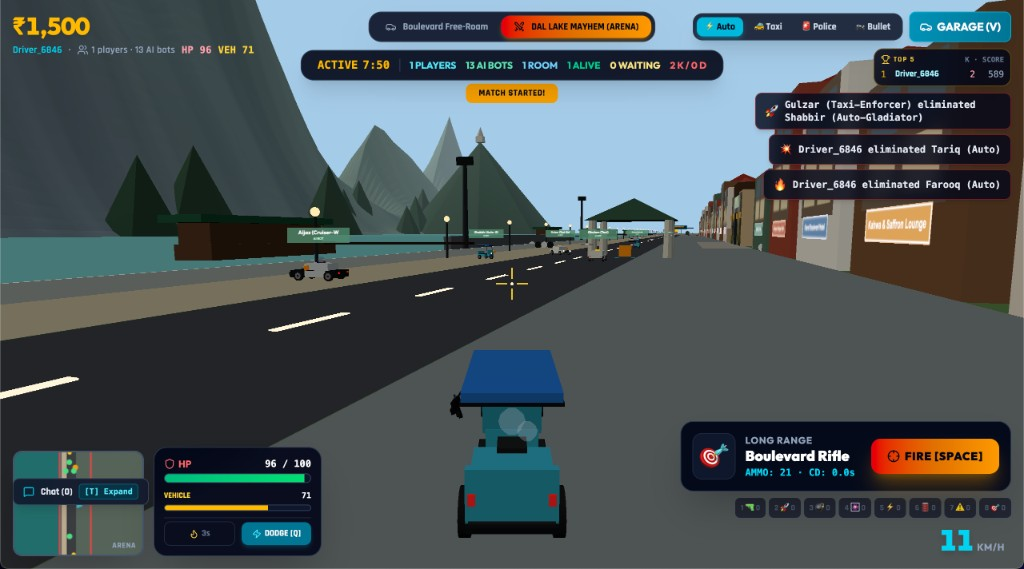
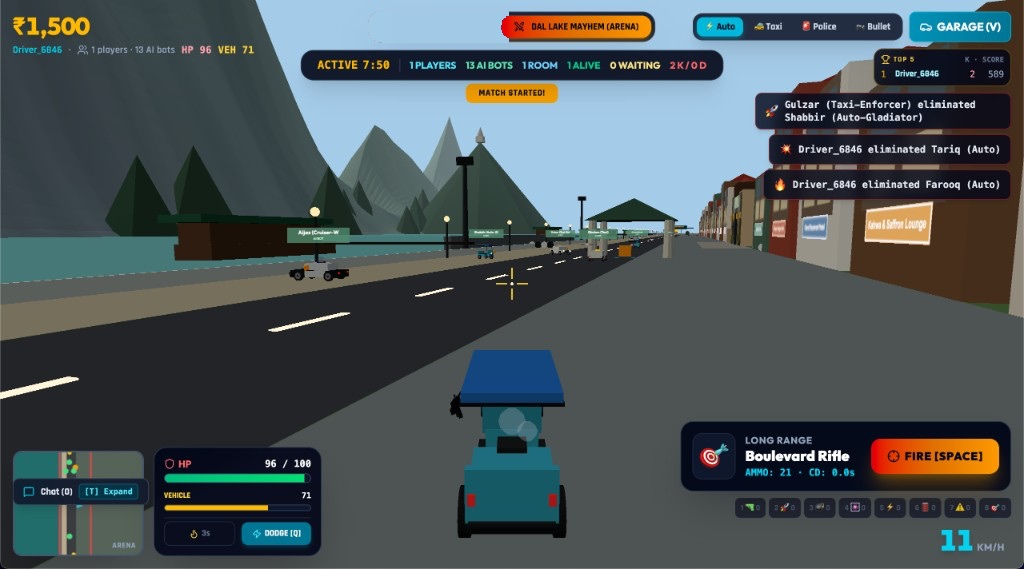
Apply ram damage in the arena and remove the free-roam buttons.
Hits were ignored once the game started in battle arena, so collisions now damage the vehicle you strike. The Boulevard Free-Roam control is gone from the start screen and HUD.

Changed region(s): [[0.3438, 0.0, 0.5, 0.0896]]

diff --git a/src/App.tsx b/src/App.tsx
@@ -1795,7 +1795,7 @@ export default function App() {
             loc.x += Math.sin(pushDir) * (collisionRadius - dist) * 0.7;
             loc.z += Math.cos(pushDir) * (collisionRadius - dist) * 0.7;
             bumpSpeed(0.35);
-            if (Math.abs(impactSpeed) >= 4.5 && ws.readyState === WebSocket.OPEN) {
+            if (Math.abs(impactSpeed) >= 2.2 && ws.readyState === WebSocket.OPEN) {
               const sentAt = lastRamSentRef.current.get(rId) || 0;
               if (nowMs - sentAt >= 650) {
                 lastRamSentRef.current.set(rId, nowMs);
@@ -2396,7 +2396,7 @@ export default function App() {
       {!hasStarted && (
         <div className="absolute inset-0 z-50 flex flex-col items-center justify-center p-6">
           <img
-            src="/assets/start-bg.jpg"
+            src="/assets/start-bg.jpg?v=3"
             alt=""
             className="absolute inset-0 h-full w-full object-cover"
           />
@@ -2454,18 +2454,6 @@ export default function App() {
               >
                 <Swords className="w-5 h-5 text-slate-950" /> DAL LAKE MAYHEM (COMBAT)
               </button>
-
-              <button
-                onClick={() => {
-                  setHasStarted(true);
-                  switchGameMode('free_roam');
-                  initAudio();
-                  playKashmiriSoundtrack();
-                }}
-                className="w-full sm:w-auto px-7 py-3.5 bg-slate-800/90 hover:bg-slate-700 border border-slate-600 text-white font-bold text-lg rounded-xl shadow-lg transition-all cursor-pointer font-['Outfit'] flex items-center justify-center gap-2"
-              >
-                <Car className="w-5 h-5 text-cyan-400" /> BOULEVARD FREE-ROAM
-              </button>
             </div>
 
             <div className={`text-xs text-slate-400 flex flex-wrap items-center justify-center gap-3 pt-4 border-t border-slate-800 ${isMobile ? 'hidden' : ''}`}>
@@ -2504,13 +2492,6 @@ export default function App() {
               </div>
               <div className="pointer-events-auto flex gap-1 bg-slate-950/80 border border-slate-700 rounded-xl p-1">
                 <button
-                  onClick={() => switchGameMode('free_roam')}
-                  className={`p-2 rounded-lg ${gameMode === 'free_roam' ? 'bg-cyan-500 text-slate-950' : 'text-slate-300'}`}
-                  title="Free-Roam"
-                >
-                  <Car className="w-4 h-4" />
-                </button>
-                <button
                   onClick={() => switchGameMode('battle_arena')}
                   className={`p-2 rounded-lg ${gameMode === 'battle_arena' ? 'bg-amber-500 text-slate-950' : 'text-slate-300'}`}
                   title="Arena"
@@ -2523,17 +2504,6 @@ export default function App() {
 
           {/* Top Center: Game Mode Switcher Tab Bar */}
           <div className={`${isMobile ? 'hidden' : ''} absolute top-4 left-1/2 -translate-x-1/2 z-30 pointer-events-auto flex items-center p-1 bg-slate-950/85 border border-slate-700 rounded-2xl shadow-2xl backdrop-blur-md`}>
-            <button
-              onClick={() => switchGameMode('free_roam')}
-              className={`flex items-center gap-2 px-4 py-1.5 rounded-xl text-xs font-bold transition-all cursor-pointer ${
-                gameMode === 'free_roam'
-                  ? 'bg-gradient-to-r from-cyan-600 to-cyan-500 text-white shadow-md shadow-cyan-600/30'
-                  : 'text-slate-400 hover:text-white'
-              }`}
-            >
-              <Car className="w-3.5 h-3.5" />
-              <span>Boulevard Free-Roam</span>
-            </button>
             <button
               onClick={() => switchGameMode('battle_arena')}
               className={`flex items-center gap-2 px-4 py-1.5 rounded-xl text-xs font-black transition-all cursor-pointer ${

diff --git a/server/roomManager.ts b/server/roomManager.ts
@@ -1333,8 +1333,8 @@ export class RoomManager {
 
   private ramDamageForSpeed(speed: number) {
     const s = Math.min(Math.abs(speed), 45);
-    if (s < 4.5) return 0;
-    return Math.min(58, Math.round(8 + (s - 4.5) * 1.35));
+    if (s < 2.2) return 0;
+    return Math.min(58, Math.round(6 + (s - 2.2) * 1.4));
   }
 
   private resolveRam(client: ConnectedClient, targetId: string, speed: number, x: number, z: number) {
@@ -1355,23 +1355,19 @@ export class RoomManager {
     let tz = NaN;
     let kind: 'player' | 'arena' | 'road' | null = null;
     if (human?.combat.isAlive) {
-      if (human.mode !== client.mode) return;
-      if (client.mode === 'battle_arena' && (this.matchState.state !== 'active' || !client.inMatch || !human.inMatch)) return;
       tx = human.state.x;
       tz = human.state.z;
       kind = 'player';
     } else if (arena?.combat.isAlive) {
-      if (client.mode !== 'battle_arena' || this.matchState.state !== 'active' || !client.inMatch) return;
       tx = arena.state.x;
       tz = arena.state.z;
       kind = 'arena';
     } else if (road && road.combat?.isAlive !== false) {
-      if (client.mode !== 'free_roam') return;
       tx = road.x;
       tz = road.z;
       kind = 'road';
     }
-    if (!kind || Math.hypot(x - tx, z - tz) > 8) return;
+    if (!kind || Math.hypot(x - tx, z - tz) > 18) return;
 
     const victimInvuln = human
       ? human.combat.invulnerableUntil
@@ -1385,16 +1381,17 @@ export class RoomManager {
     this.ramCooldown.set(key, now);
 
     if (kind === 'player' && human) {
-      this.dealDamageToPlayer(human, impact, client.playerId, client.name, 'ram', human.state.x, human.state.z);
+      this.dealDamageToPlayer(human, impact, client.playerId, client.name, 'ram', human.state.x, human.state.z, true);
       human.state.combat = human.combat;
     } else if (kind === 'arena' && arena) {
-      this.dealDamageToBot(arena, impact, client.playerId, client.name, 'ram', arena.state.x, arena.state.z);
+      this.dealDamageToBot(arena, impact, client.playerId, client.name, 'ram', arena.state.x, arena.state.z, true);
+      arena.state.combat = arena.combat;
     } else if (kind === 'road' && road) {
       this.hurtRoadBot(road, impact, client.playerId, client.name, 'ram');
     }
 
     const selfDamage = Math.max(4, Math.round(impact * 0.5));
-    this.dealDamageToPlayer(client, selfDamage, client.playerId, client.name, 'ram', client.state.x, client.state.z);
+    this.dealDamageToPlayer(client, selfDamage, client.playerId, client.name, 'ram', client.state.x, client.state.z, true);
     client.state.combat = client.combat;
   }
 
@@ -2486,10 +2483,11 @@ export class RoomManager {
     attackerName: string,
     wType: WeaponType | 'ram',
     x: number,
-    z: number
+    z: number,
+    ram = false
   ) {
     const now = Date.now();
-    if (victim.mode === 'battle_arena') {
+    if (!ram && victim.mode === 'battle_arena') {
       if (this.matchState.state !== 'active') return;
       if (!victim.inMatch) return;
     }
@@ -2599,10 +2597,11 @@ export class RoomManager {
     attackerName: string,
     wType: WeaponType | 'ram',
     x: number,
-    z: number
+    z: number,
+    ram = false
   ) {
     const now = Date.now();
-    if (this.matchState.state !== 'active') return;
+    if (!ram && this.matchState.state !== 'active') return;
     if (now < victim.combat.invulnerableUntil) return;
 
     let dmgRemaining = amount;
